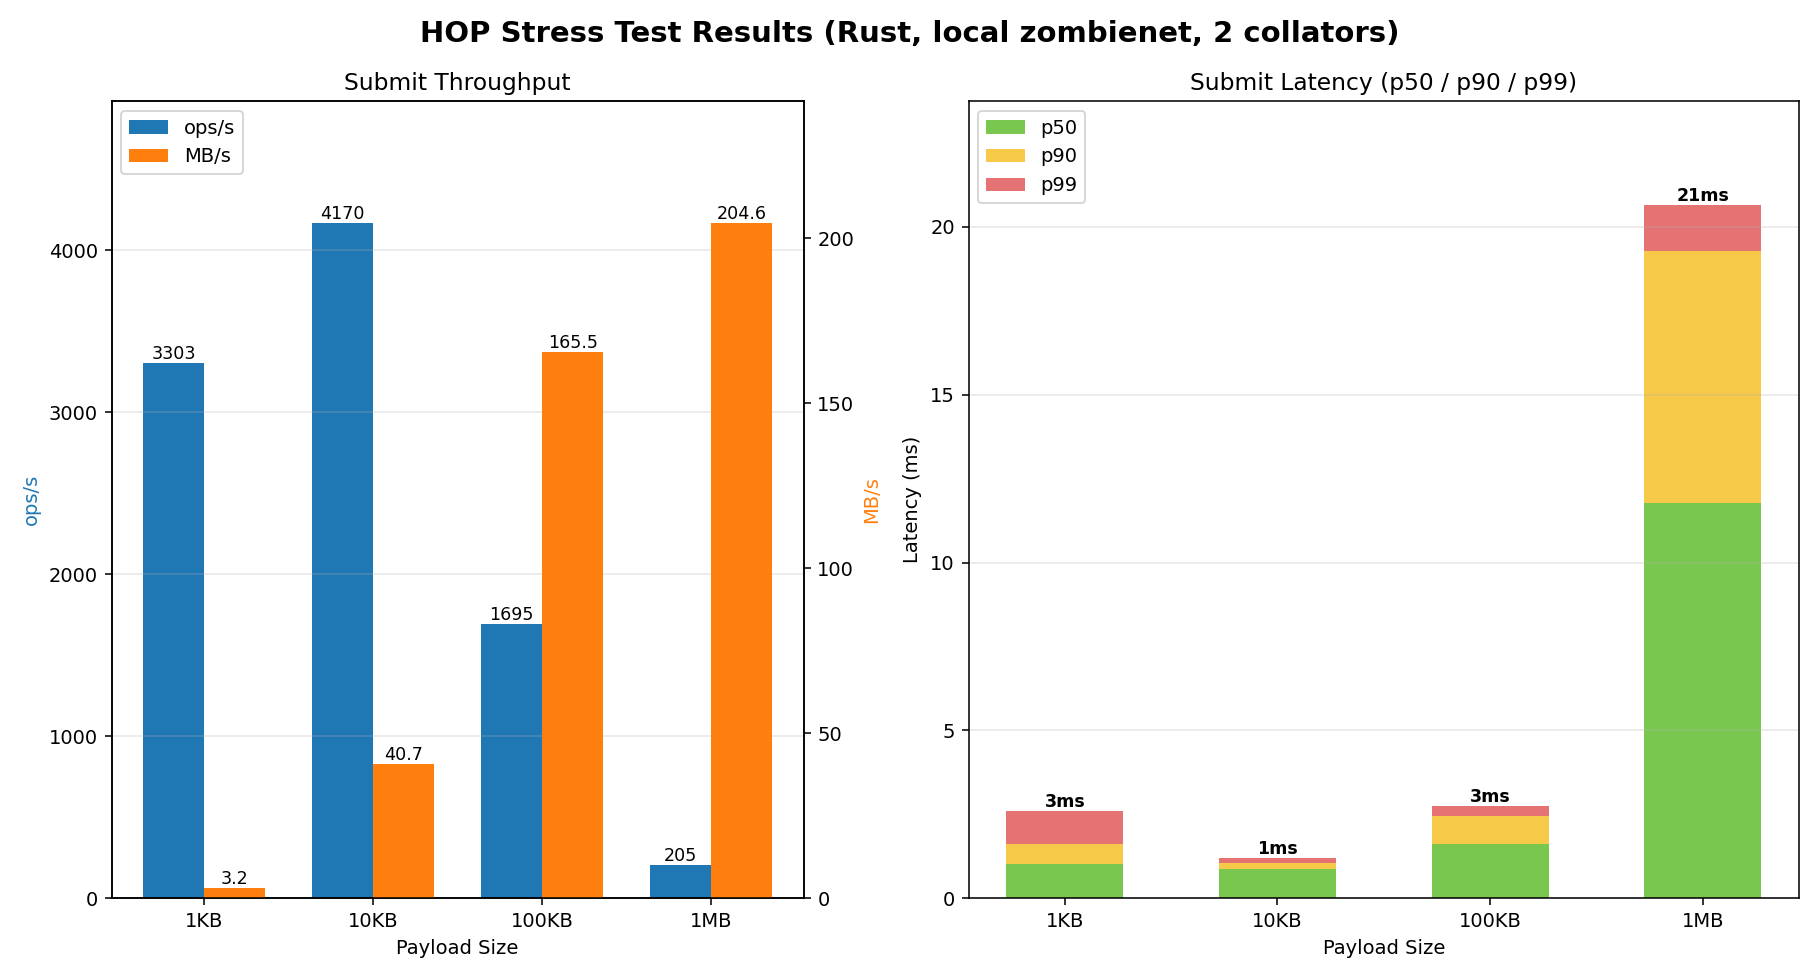
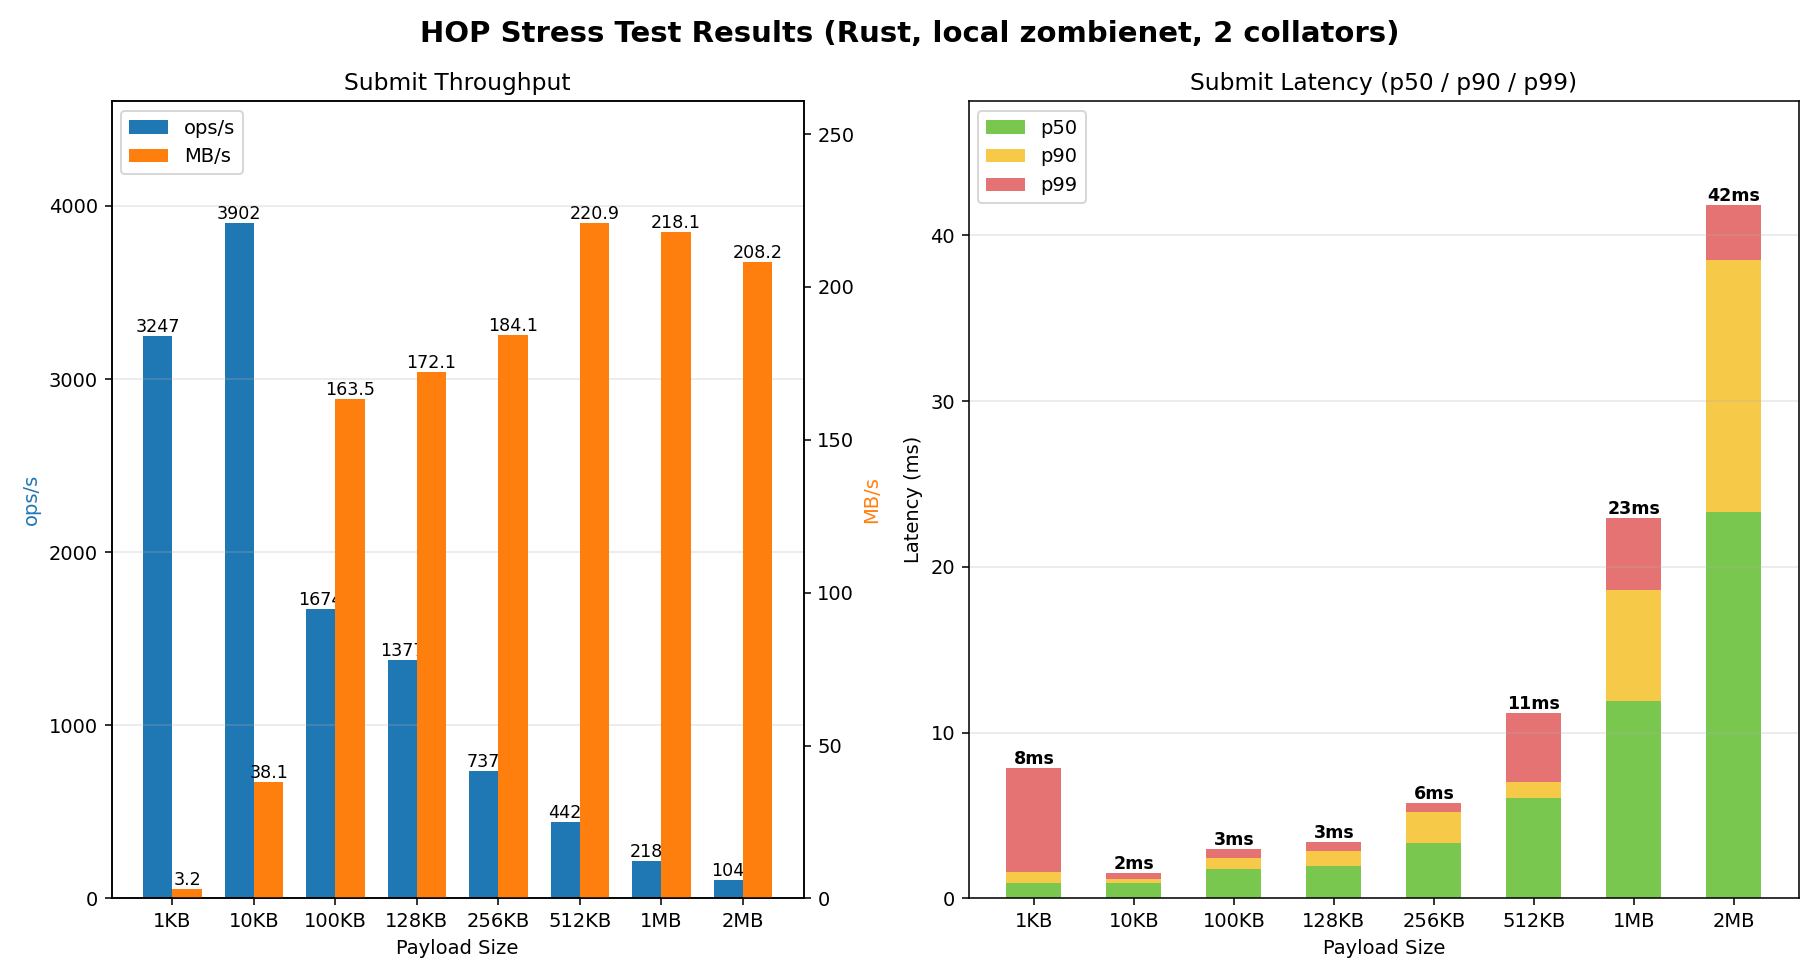
stress-test: extend HOP submit sweep with 128/256/512 KB and 2 MB
`hop all` now covers 1 / 10 / 100 / 128 / 256 / 512 KB / 1 / 2 MB in a
single invocation. The 2 MB point hits the default 256 MiB per-user pool
cap, so the local zombienet bumps `--hop-max-user-size` to 2048 MiB to
keep the full sweep + claim scenarios within quota.

diff --git a/stress-test/src/scenarios/hop.rs b/stress-test/src/scenarios/hop.rs
@@ -16,8 +16,16 @@ use crate::{
 };
 
 /// Payload sizes for the submit sweep.
-const SUBMIT_PAYLOAD_SIZES: &[(usize, &str)] =
-	&[(1024, "1KB"), (10 * 1024, "10KB"), (100 * 1024, "100KB"), (1024 * 1024, "1MB")];
+const SUBMIT_PAYLOAD_SIZES: &[(usize, &str)] = &[
+	(1024, "1KB"),
+	(10 * 1024, "10KB"),
+	(100 * 1024, "100KB"),
+	(128 * 1024, "128KB"),
+	(256 * 1024, "256KB"),
+	(512 * 1024, "512KB"),
+	(1024 * 1024, "1MB"),
+	(2 * 1024 * 1024, "2MB"),
+];
 
 // Disjoint payload index spaces so scenarios run back-to-back without colliding
 // on `DuplicateEntry` (HOP pool deduplicates by content hash).